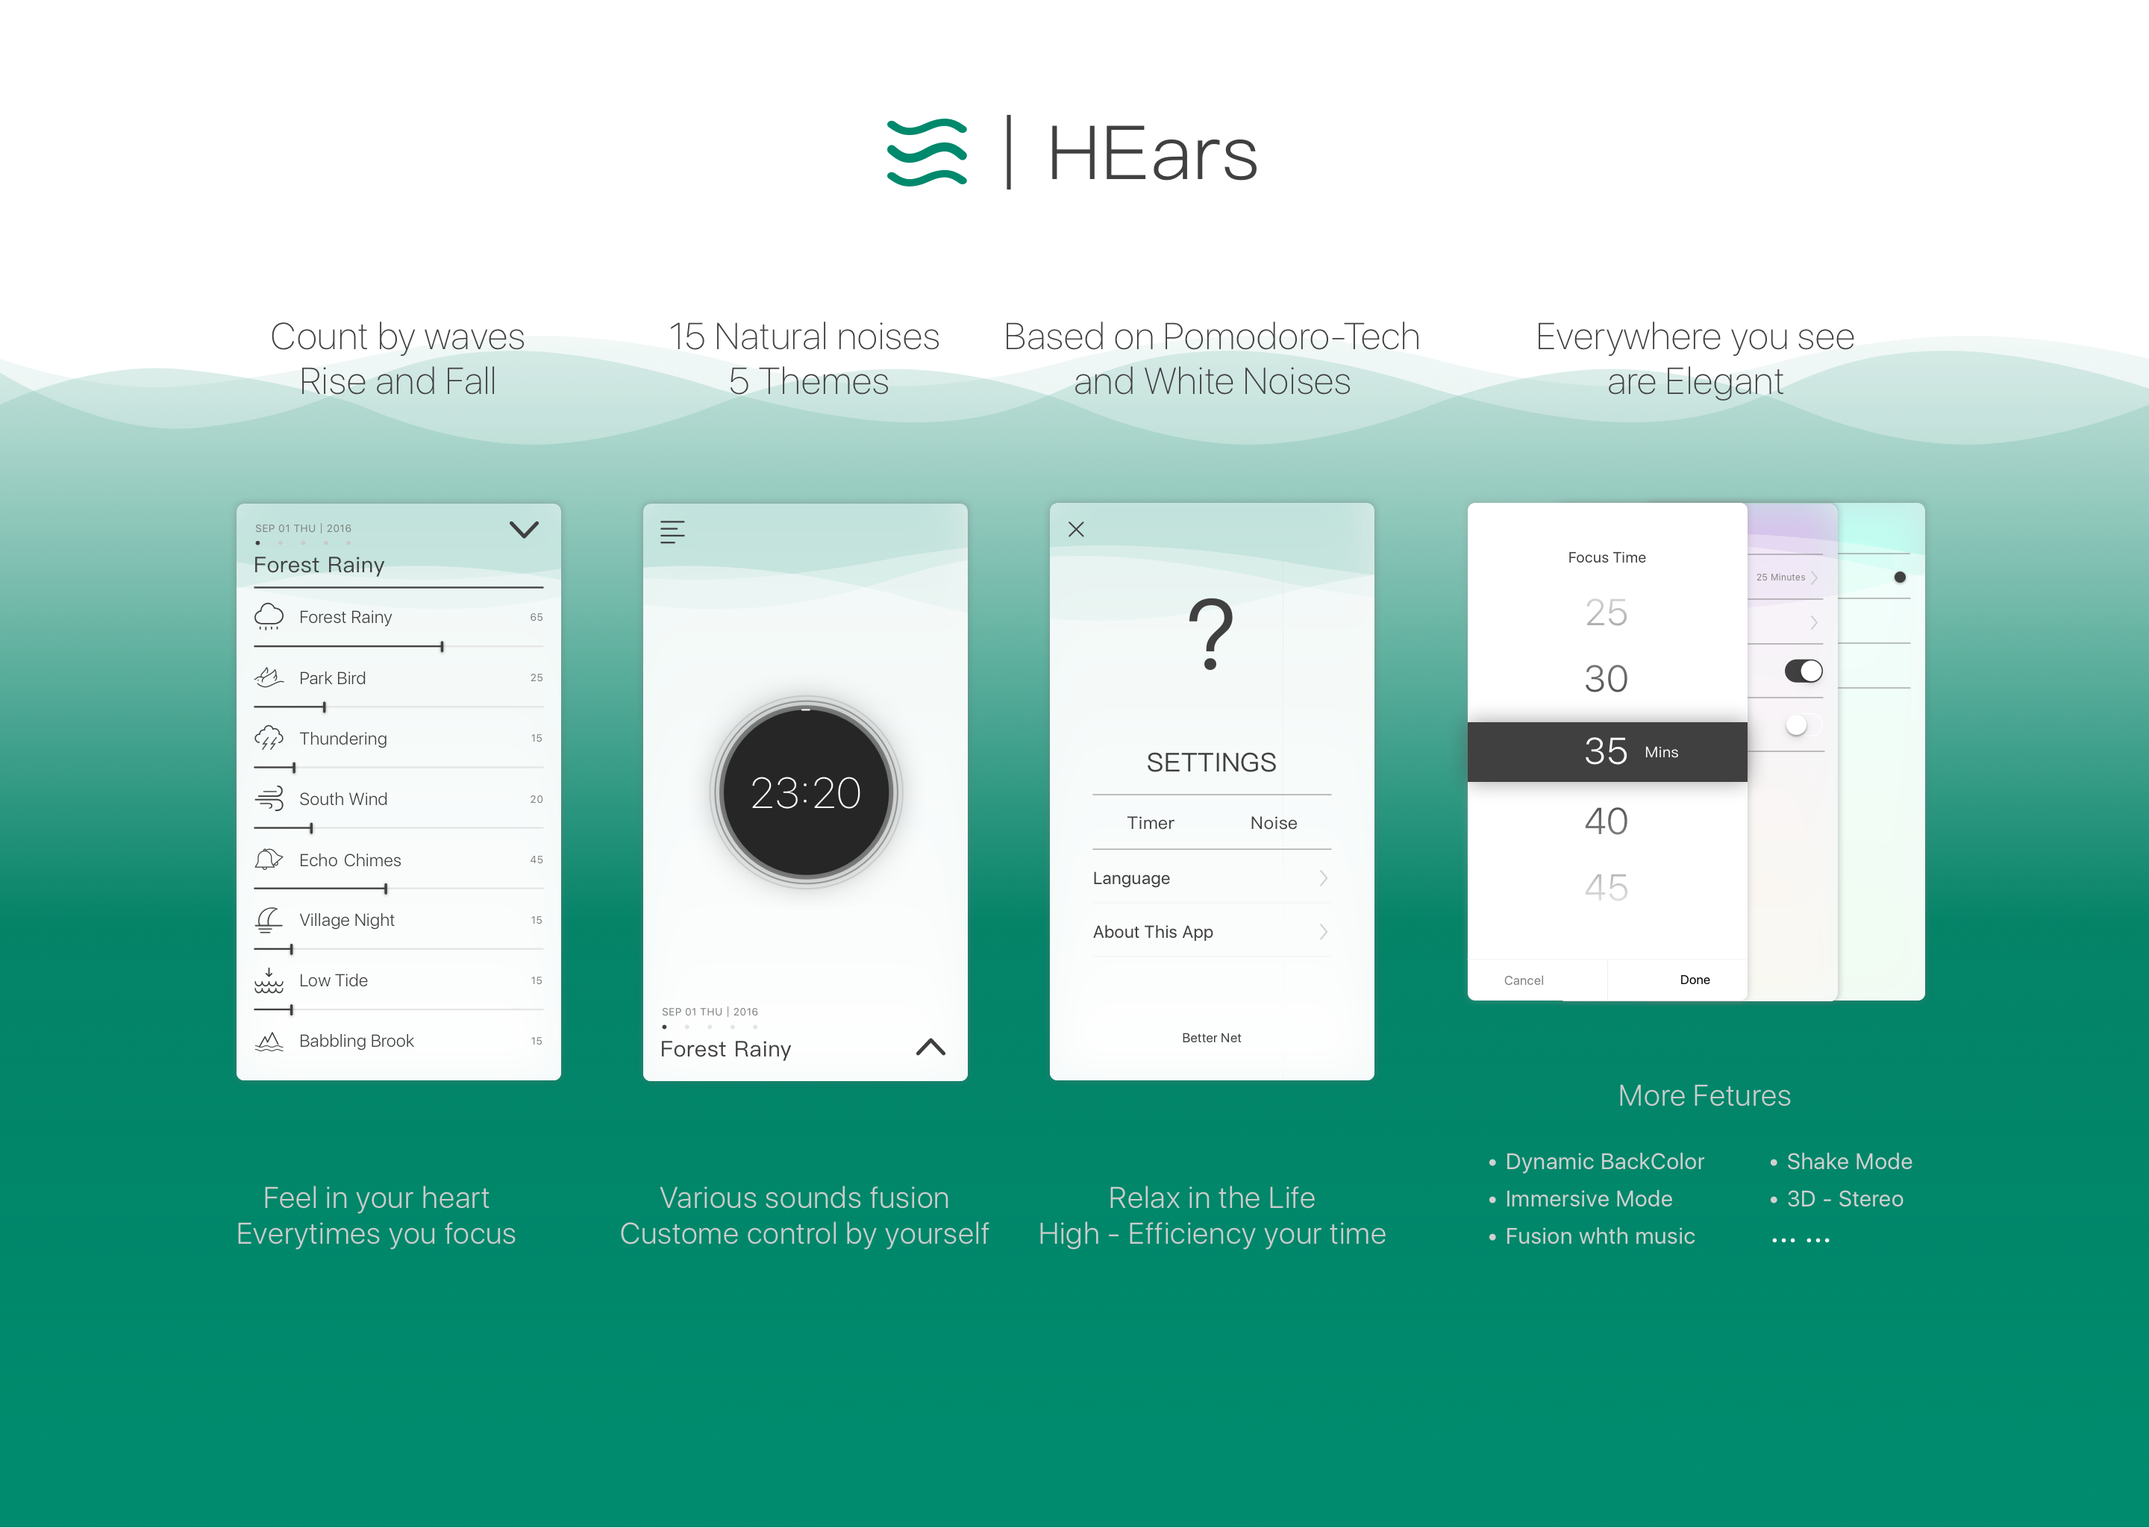
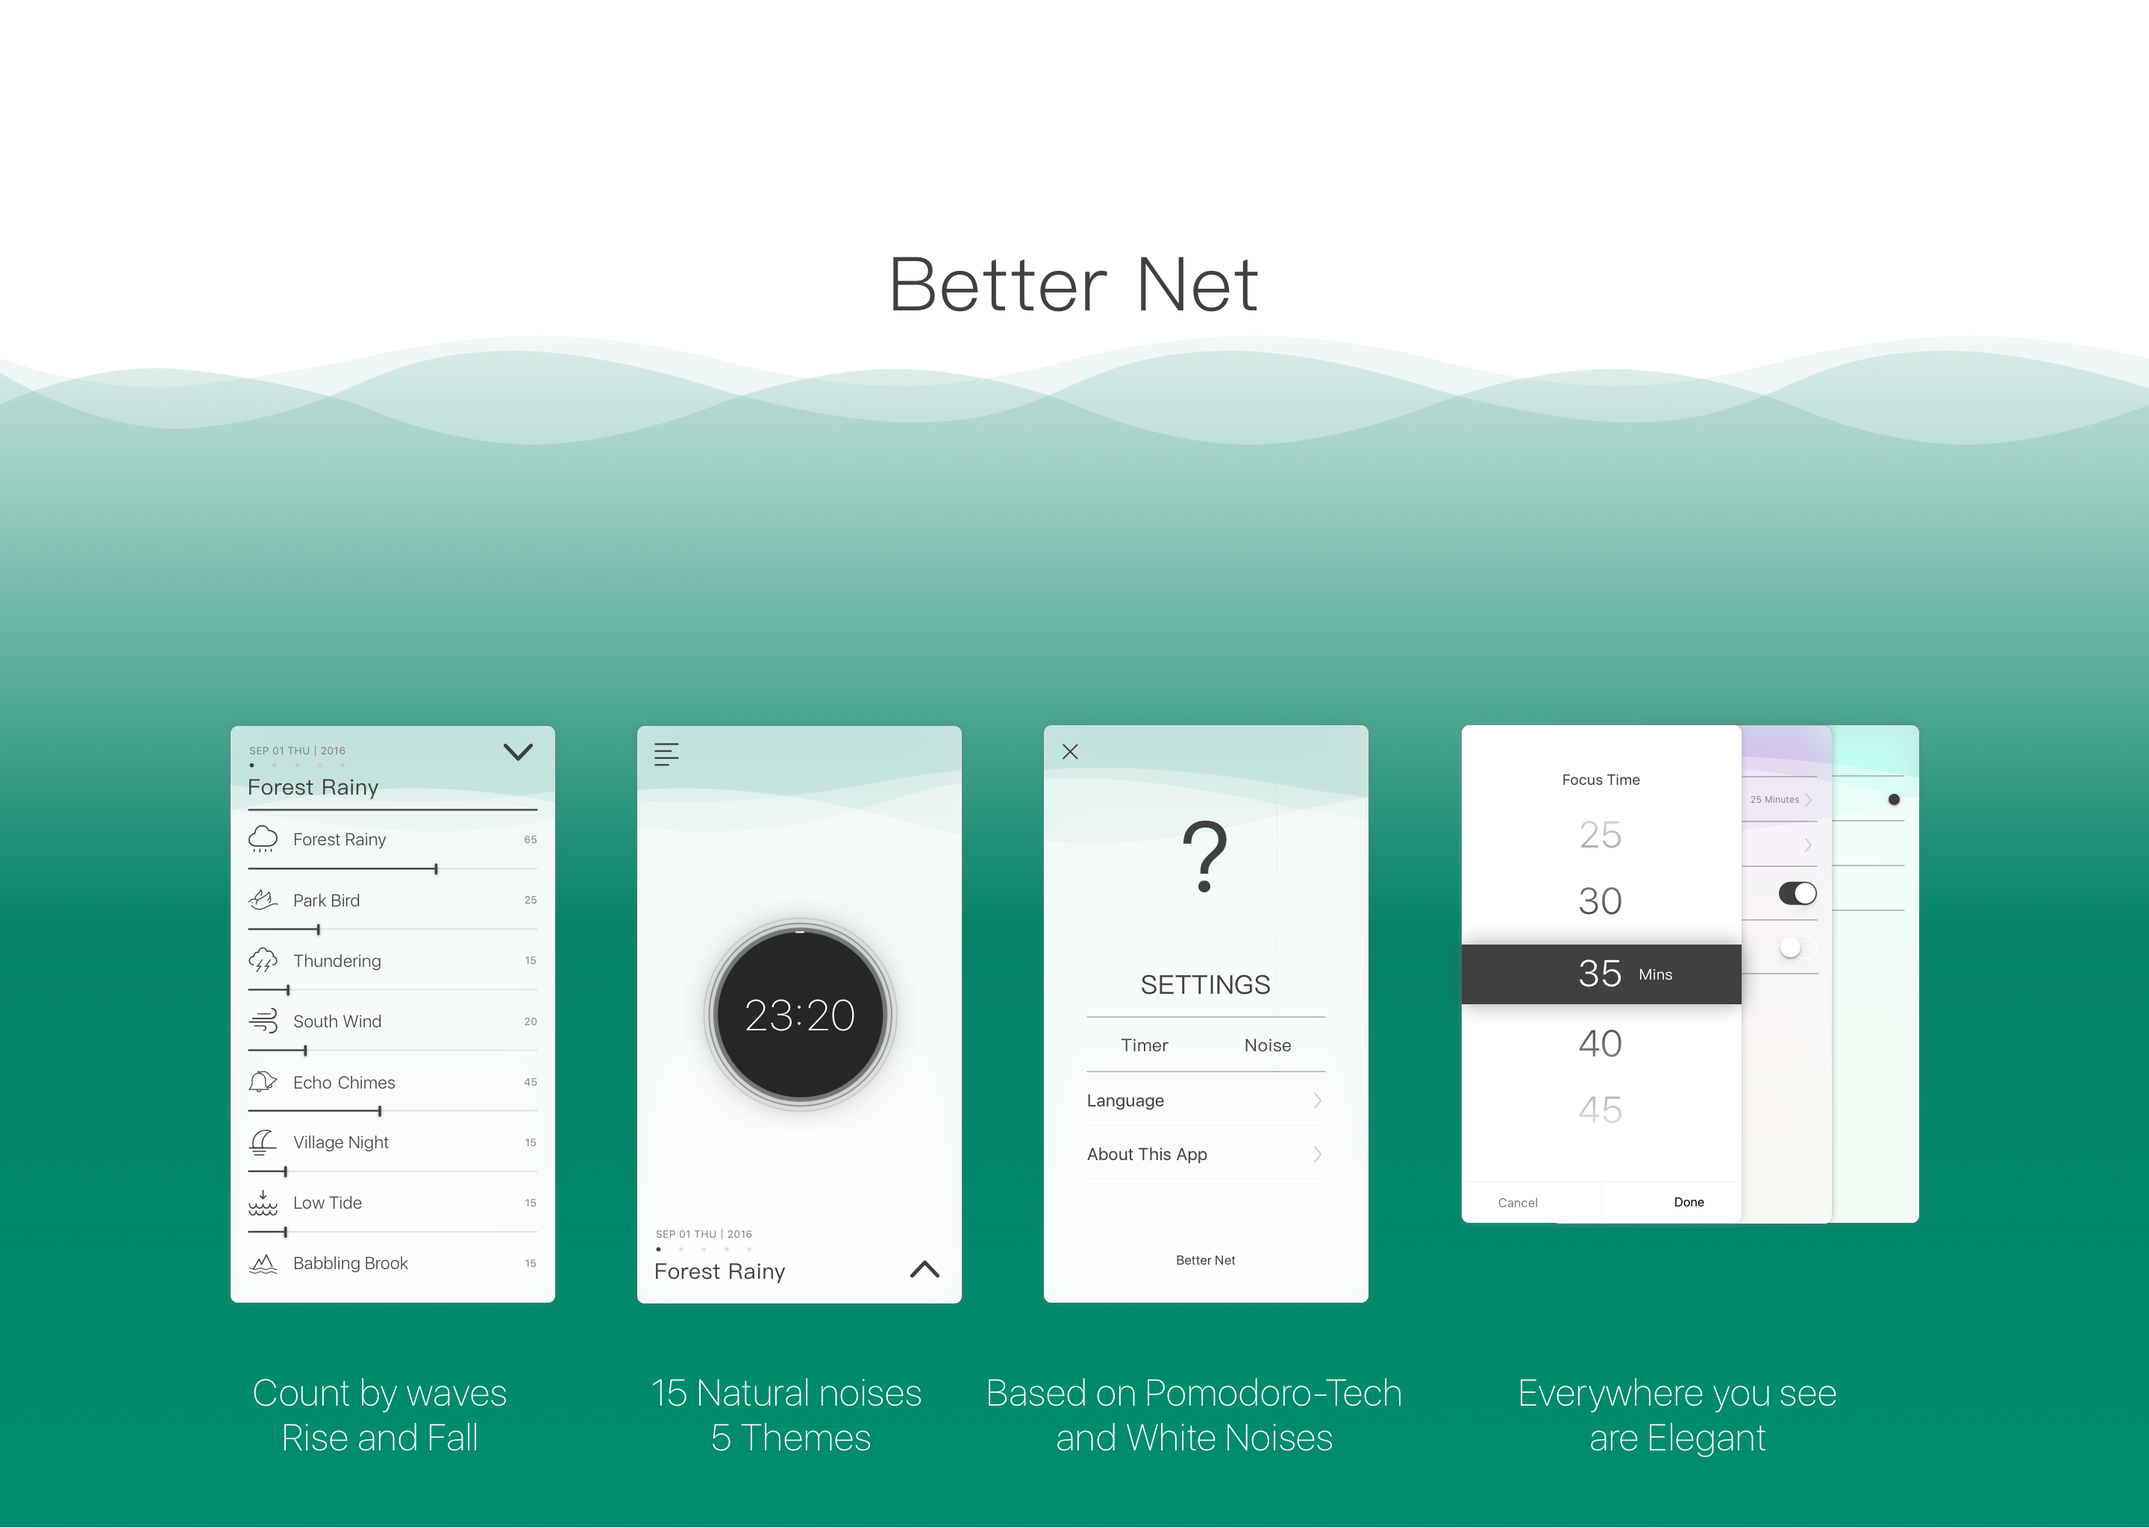
Site updated: 2016-10-07 13:42:57

diff --git a/archives/2085/01/index.html b/archives/2085/01/index.html
@@ -4,7 +4,7 @@
     <meta charset="utf-8"/>
     <meta http-equiv="X-UA-Compatible" content="IE=edge"/>
     
-    <title>Better Net | Get a new Life with Better</title>
+    <title>HEars | Get a new Life with Better</title>
     <meta name="renderer" content="webkit">
     <meta name="HandheldFriendly" content="True">
     <meta name="MobileOptimized" content="320">
@@ -15,11 +15,11 @@
     <meta name="description" content="The Most Elegant Pomodoro Timer">
 
     <meta name="twitter:card" content="summary">
-    <meta name="twitter:title" content="Better Net | Get a new Life with Better">
+    <meta name="twitter:title" content="HEars | Get a new Life with Better">
     <meta name="twitter:description" content="The Most Elegant Pomodoro Timer">
 
     <meta property="og:type" content="article">
-    <meta property="og:title" content="Better Net | Get a new Life with Better">
+    <meta property="og:title" content="HEars | Get a new Life with Better">
     <meta property="og:description" content="The Most Elegant Pomodoro Timer">
 
     
@@ -34,7 +34,7 @@
 
     <meta name="generator" content="hexo"/>
     
-    <link rel="alternate" type="application/rss+xml" title="Better Net" href="/atom.xml">
+    <link rel="alternate" type="application/rss+xml" title="HEars" href="/atom.xml">
     
 
     <link rel="canonical" href="http://yoursite.com"/>
@@ -55,13 +55,13 @@
     <div class="panel-main__inner panel-inverted">
     <div class="panel-main__content">
 
-        <a href="/" title="前往 Better Net 的主页"><img src="/images/Avatar.png" width="80" alt="Better Net logo" class="panel-cover__logo logo" /></a>
-        <h1 class="panel-cover__title panel-title"><a href="/" title="link to homepage for Better Net">Better Net</a></h1>
+        <a href="/" title="前往 HEars 的主页"><img src="/images/Avatar.png" width="80" alt="HEars logo" class="panel-cover__logo logo" /></a>
+        <h1 class="panel-cover__title panel-title"><a href="/" title="link to homepage for HEars">HEars</a></h1>
         
         <span class="panel-cover__subtitle panel-subtitle">Get a new Life with Better</span>
         
         <hr class="panel-cover__divider" />
-        <p class="panel-cover__description">Elegant is everywhere</p>
+        <p class="panel-cover__description"></p>
         <hr class="panel-cover__divider panel-cover__divider--secondary" />
 
         <div class="navigation-wrapper">

diff --git a/archives/2085/index.html b/archives/2085/index.html
@@ -4,7 +4,7 @@
     <meta charset="utf-8"/>
     <meta http-equiv="X-UA-Compatible" content="IE=edge"/>
     
-    <title>Better Net | Get a new Life with Better</title>
+    <title>HEars | Get a new Life with Better</title>
     <meta name="renderer" content="webkit">
     <meta name="HandheldFriendly" content="True">
     <meta name="MobileOptimized" content="320">
@@ -15,11 +15,11 @@
     <meta name="description" content="The Most Elegant Pomodoro Timer">
 
     <meta name="twitter:card" content="summary">
-    <meta name="twitter:title" content="Better Net | Get a new Life with Better">
+    <meta name="twitter:title" content="HEars | Get a new Life with Better">
     <meta name="twitter:description" content="The Most Elegant Pomodoro Timer">
 
     <meta property="og:type" content="article">
-    <meta property="og:title" content="Better Net | Get a new Life with Better">
+    <meta property="og:title" content="HEars | Get a new Life with Better">
     <meta property="og:description" content="The Most Elegant Pomodoro Timer">
 
     
@@ -34,7 +34,7 @@
 
     <meta name="generator" content="hexo"/>
     
-    <link rel="alternate" type="application/rss+xml" title="Better Net" href="/atom.xml">
+    <link rel="alternate" type="application/rss+xml" title="HEars" href="/atom.xml">
     
 
     <link rel="canonical" href="http://yoursite.com"/>
@@ -55,13 +55,13 @@
     <div class="panel-main__inner panel-inverted">
     <div class="panel-main__content">
 
-        <a href="/" title="前往 Better Net 的主页"><img src="/images/Avatar.png" width="80" alt="Better Net logo" class="panel-cover__logo logo" /></a>
-        <h1 class="panel-cover__title panel-title"><a href="/" title="link to homepage for Better Net">Better Net</a></h1>
+        <a href="/" title="前往 HEars 的主页"><img src="/images/Avatar.png" width="80" alt="HEars logo" class="panel-cover__logo logo" /></a>
+        <h1 class="panel-cover__title panel-title"><a href="/" title="link to homepage for HEars">HEars</a></h1>
         
         <span class="panel-cover__subtitle panel-subtitle">Get a new Life with Better</span>
         
         <hr class="panel-cover__divider" />
-        <p class="panel-cover__description">Elegant is everywhere</p>
+        <p class="panel-cover__description"></p>
         <hr class="panel-cover__divider panel-cover__divider--secondary" />
 
         <div class="navigation-wrapper">

diff --git a/archives/index.html b/archives/index.html
@@ -4,7 +4,7 @@
     <meta charset="utf-8"/>
     <meta http-equiv="X-UA-Compatible" content="IE=edge"/>
     
-    <title>Better Net | Get a new Life with Better</title>
+    <title>HEars | Get a new Life with Better</title>
     <meta name="renderer" content="webkit">
     <meta name="HandheldFriendly" content="True">
     <meta name="MobileOptimized" content="320">
@@ -15,11 +15,11 @@
     <meta name="description" content="The Most Elegant Pomodoro Timer">
 
     <meta name="twitter:card" content="summary">
-    <meta name="twitter:title" content="Better Net | Get a new Life with Better">
+    <meta name="twitter:title" content="HEars | Get a new Life with Better">
     <meta name="twitter:description" content="The Most Elegant Pomodoro Timer">
 
     <meta property="og:type" content="article">
-    <meta property="og:title" content="Better Net | Get a new Life with Better">
+    <meta property="og:title" content="HEars | Get a new Life with Better">
     <meta property="og:description" content="The Most Elegant Pomodoro Timer">
 
     
@@ -34,7 +34,7 @@
 
     <meta name="generator" content="hexo"/>
     
-    <link rel="alternate" type="application/rss+xml" title="Better Net" href="/atom.xml">
+    <link rel="alternate" type="application/rss+xml" title="HEars" href="/atom.xml">
     
 
     <link rel="canonical" href="http://yoursite.com"/>
@@ -55,13 +55,13 @@
     <div class="panel-main__inner panel-inverted">
     <div class="panel-main__content">
 
-        <a href="/" title="前往 Better Net 的主页"><img src="/images/Avatar.png" width="80" alt="Better Net logo" class="panel-cover__logo logo" /></a>
-        <h1 class="panel-cover__title panel-title"><a href="/" title="link to homepage for Better Net">Better Net</a></h1>
+        <a href="/" title="前往 HEars 的主页"><img src="/images/Avatar.png" width="80" alt="HEars logo" class="panel-cover__logo logo" /></a>
+        <h1 class="panel-cover__title panel-title"><a href="/" title="link to homepage for HEars">HEars</a></h1>
         
         <span class="panel-cover__subtitle panel-subtitle">Get a new Life with Better</span>
         
         <hr class="panel-cover__divider" />
-        <p class="panel-cover__description">Elegant is everywhere</p>
+        <p class="panel-cover__description"></p>
         <hr class="panel-cover__divider panel-cover__divider--secondary" />
 
         <div class="navigation-wrapper">

diff --git a/index.html b/index.html
@@ -4,7 +4,7 @@
     <meta charset="utf-8"/>
     <meta http-equiv="X-UA-Compatible" content="IE=edge"/>
     
-    <title>Better Net | Get a new Life with Better</title>
+    <title>HEars | Get a new Life with Better</title>
     <meta name="renderer" content="webkit">
     <meta name="HandheldFriendly" content="True">
     <meta name="MobileOptimized" content="320">
@@ -15,11 +15,11 @@
     <meta name="description" content="The Most Elegant Pomodoro Timer">
 
     <meta name="twitter:card" content="summary">
-    <meta name="twitter:title" content="Better Net | Get a new Life with Better">
+    <meta name="twitter:title" content="HEars | Get a new Life with Better">
     <meta name="twitter:description" content="The Most Elegant Pomodoro Timer">
 
     <meta property="og:type" content="article">
-    <meta property="og:title" content="Better Net | Get a new Life with Better">
+    <meta property="og:title" content="HEars | Get a new Life with Better">
     <meta property="og:description" content="The Most Elegant Pomodoro Timer">
 
     
@@ -34,7 +34,7 @@
 
     <meta name="generator" content="hexo"/>
     
-    <link rel="alternate" type="application/rss+xml" title="Better Net" href="/atom.xml">
+    <link rel="alternate" type="application/rss+xml" title="HEars" href="/atom.xml">
     
 
     <link rel="canonical" href="http://yoursite.com"/>
@@ -55,13 +55,13 @@
     <div class="panel-main__inner panel-inverted">
     <div class="panel-main__content">
 
-        <a href="/" title="前往 Better Net 的主页"><img src="/images/Avatar.png" width="80" alt="Better Net logo" class="panel-cover__logo logo" /></a>
-        <h1 class="panel-cover__title panel-title"><a href="/" title="link to homepage for Better Net">Better Net</a></h1>
+        <a href="/" title="前往 HEars 的主页"><img src="/images/Avatar.png" width="80" alt="HEars logo" class="panel-cover__logo logo" /></a>
+        <h1 class="panel-cover__title panel-title"><a href="/" title="link to homepage for HEars">HEars</a></h1>
         
         <span class="panel-cover__subtitle panel-subtitle">Get a new Life with Better</span>
         
         <hr class="panel-cover__divider" />
-        <p class="panel-cover__description">Elegant is everywhere</p>
+        <p class="panel-cover__description"></p>
         <hr class="panel-cover__divider panel-cover__divider--secondary" />
 
         <div class="navigation-wrapper">

diff --git a/tags/hexo/index.html b/tags/hexo/index.html
@@ -4,7 +4,7 @@
     <meta charset="utf-8"/>
     <meta http-equiv="X-UA-Compatible" content="IE=edge"/>
     
-    <title>Better Net | Get a new Life with Better</title>
+    <title>HEars | Get a new Life with Better</title>
     <meta name="renderer" content="webkit">
     <meta name="HandheldFriendly" content="True">
     <meta name="MobileOptimized" content="320">
@@ -15,11 +15,11 @@
     <meta name="description" content="The Most Elegant Pomodoro Timer">
 
     <meta name="twitter:card" content="summary">
-    <meta name="twitter:title" content="Better Net | Get a new Life with Better">
+    <meta name="twitter:title" content="HEars | Get a new Life with Better">
     <meta name="twitter:description" content="The Most Elegant Pomodoro Timer">
 
     <meta property="og:type" content="article">
-    <meta property="og:title" content="Better Net | Get a new Life with Better">
+    <meta property="og:title" content="HEars | Get a new Life with Better">
     <meta property="og:description" content="The Most Elegant Pomodoro Timer">
 
     
@@ -34,7 +34,7 @@
 
     <meta name="generator" content="hexo"/>
     
-    <link rel="alternate" type="application/rss+xml" title="Better Net" href="/atom.xml">
+    <link rel="alternate" type="application/rss+xml" title="HEars" href="/atom.xml">
     
 
     <link rel="canonical" href="http://yoursite.com"/>
@@ -55,13 +55,13 @@
     <div class="panel-main__inner panel-inverted">
     <div class="panel-main__content">
 
-        <a href="/" title="前往 Better Net 的主页"><img src="/images/Avatar.png" width="80" alt="Better Net logo" class="panel-cover__logo logo" /></a>
-        <h1 class="panel-cover__title panel-title"><a href="/" title="link to homepage for Better Net">Better Net</a></h1>
+        <a href="/" title="前往 HEars 的主页"><img src="/images/Avatar.png" width="80" alt="HEars logo" class="panel-cover__logo logo" /></a>
+        <h1 class="panel-cover__title panel-title"><a href="/" title="link to homepage for HEars">HEars</a></h1>
         
         <span class="panel-cover__subtitle panel-subtitle">Get a new Life with Better</span>
         
         <hr class="panel-cover__divider" />
-        <p class="panel-cover__description">Elegant is everywhere</p>
+        <p class="panel-cover__description"></p>
         <hr class="panel-cover__divider panel-cover__divider--secondary" />
 
         <div class="navigation-wrapper">

diff --git a/2085/01/16/Test/index.html b/2085/01/16/Test/index.html
@@ -4,7 +4,7 @@
     <meta charset="utf-8"/>
     <meta http-equiv="X-UA-Compatible" content="IE=edge"/>
     
-    <title>我的阅历 | Better Net</title>
+    <title>我的阅历 | HEars</title>
     <meta name="renderer" content="webkit">
     <meta name="HandheldFriendly" content="True">
     <meta name="MobileOptimized" content="320">
@@ -15,11 +15,11 @@
     <meta name="description" content="The Most Elegant Pomodoro Timer">
 
     <meta name="twitter:card" content="summary">
-    <meta name="twitter:title" content="我的阅历 | Better Net">
+    <meta name="twitter:title" content="我的阅历 | HEars">
     <meta name="twitter:description" content="The Most Elegant Pomodoro Timer">
 
     <meta property="og:type" content="article">
-    <meta property="og:title" content="我的阅历 | Better Net">
+    <meta property="og:title" content="我的阅历 | HEars">
     <meta property="og:description" content="The Most Elegant Pomodoro Timer">
 
     
@@ -34,7 +34,7 @@
 
     <meta name="generator" content="hexo"/>
     
-    <link rel="alternate" type="application/rss+xml" title="Better Net" href="/atom.xml">
+    <link rel="alternate" type="application/rss+xml" title="HEars" href="/atom.xml">
     
 
     <link rel="canonical" href="http://yoursite.com/2085/01/16/Test/"/>
@@ -55,13 +55,13 @@
     <div class="panel-main__inner panel-inverted">
     <div class="panel-main__content">
 
-        <a href="/" title="前往 Better Net 的主页"><img src="/images/Avatar.png" width="80" alt="Better Net logo" class="panel-cover__logo logo" /></a>
-        <h1 class="panel-cover__title panel-title"><a href="/" title="link to homepage for Better Net">Better Net</a></h1>
+        <a href="/" title="前往 HEars 的主页"><img src="/images/Avatar.png" width="80" alt="HEars logo" class="panel-cover__logo logo" /></a>
+        <h1 class="panel-cover__title panel-title"><a href="/" title="link to homepage for HEars">HEars</a></h1>
         
         <span class="panel-cover__subtitle panel-subtitle">Get a new Life with Better</span>
         
         <hr class="panel-cover__divider" />
-        <p class="panel-cover__description">Elegant is everywhere</p>
+        <p class="panel-cover__description"></p>
         <hr class="panel-cover__divider panel-cover__divider--secondary" />
 
         <div class="navigation-wrapper">
